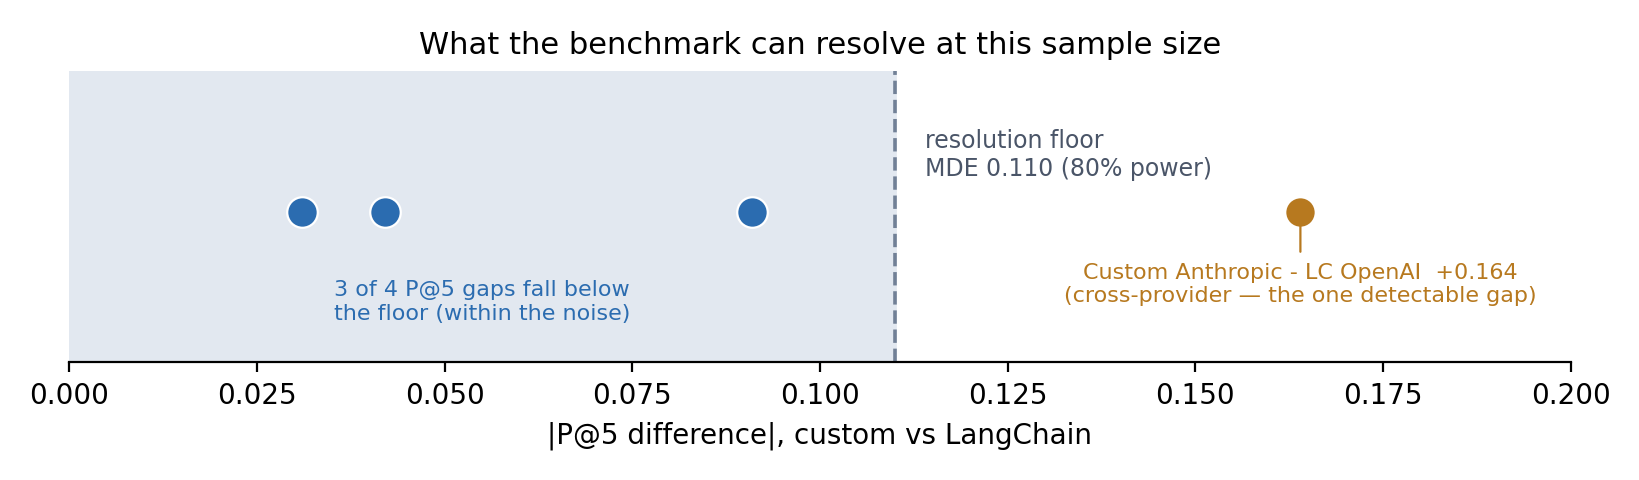
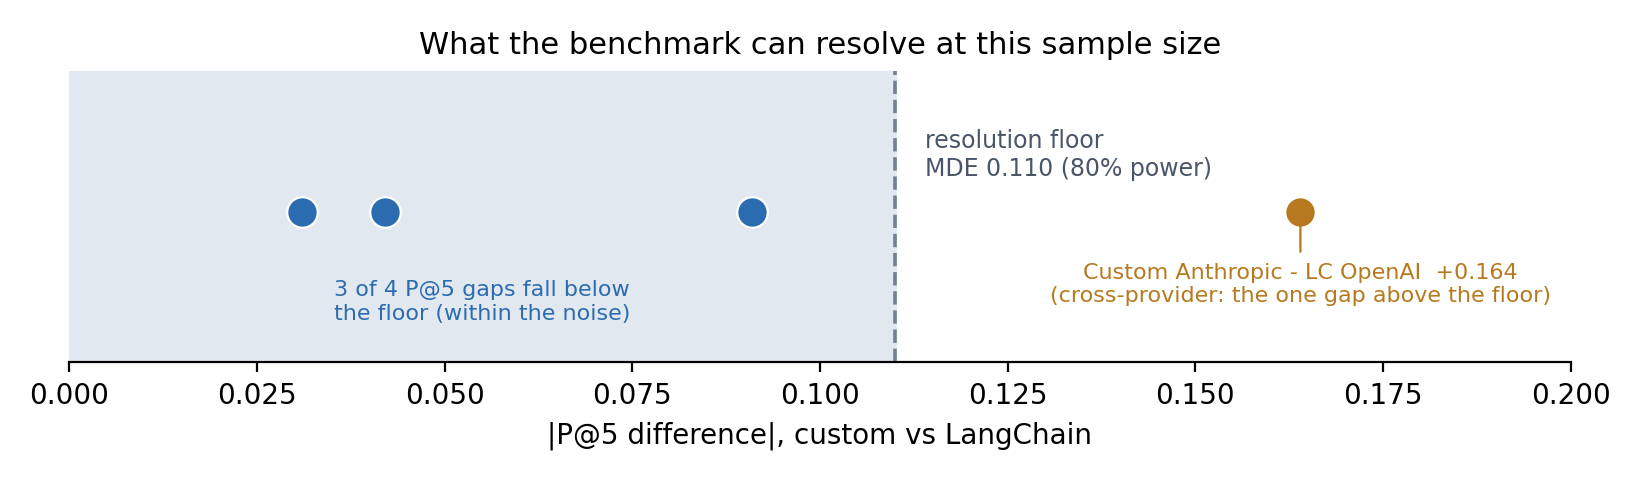
fix(plots): address code-review findings (provenance + derived annotations)
Applies the review fixes (my /code-review + Codex adversarial pass) to the plot set.

1. Unfolding plot pins the KNOWN-TRUTH row, not just observed. unfolding_source now
   parses "Known true pass-rate" from judge-design.md 1.9 and draws the truth line
   from it, so a future 1.9 edit that decoupled observed from truth fails the
   freshness check instead of silently passing a stale "contains the known truth".

2. MDE plot derives detectability from |gap| >= MDE (not 95% significance), computes
   the "N of M below floor" count from the data, derives the cross-provider label
   from same_provider, and guards the zero/multiple cases (was a hardcoded "3 of 4"
   plus a next() that StopIterations when no pair is significant). Correct by
   construction now, not by today's coincidence.

3. The 1.9 point-estimate regex is sign-tolerant (-?), so a negative matrix-inversion
   point (the explicitly-unstable estimator) parses instead of crashing `make plots`.

4. Caption numbers pinned: report-backed numbers (MDE, the +0.164 diff, both ICC
   values, and a new within_question_pct report key) now carry check_readme_stats
   markers (35 -> 41). The unfolding caption's numbers live in judge-design.md (not
   the report, so not checker-pinnable), so the duplicated figures were trimmed from
   the caption -- the plot already shows and pins them.

5. Em-dashes removed from the new captions (CLAUDE.md: no em or en dashes in docs);
[…]

Changed region(s): [[0.6223, 0.5938, 0.9646, 0.6562]]

diff --git a/scripts/make_plots.py b/scripts/make_plots.py
@@ -182,13 +182,21 @@ def variance_source(values: dict[str, str]) -> dict:
 
 def mde_source(values: dict[str, str], corpus: str = "fastapi") -> dict:
     """The P@5 minimum detectable effect (80 percent power) and the four
-    framework-pair |gaps| measured against it -- the detectability/power view."""
+    framework-pair |gaps| measured against it -- the detectability/power view.
+    ``detectable`` is the resolution criterion |gap| >= MDE (NOT 95 percent
+    significance); the two coincide on current data but are different questions."""
+    mde = float(values[f"{corpus}_mde_p_at_5_80"])
     gaps = [
-        {"label": r["label"], "abs_diff": abs(r["diff"]), "significant": r["significant"]}
+        {
+            "label": r["label"],
+            "abs_diff": abs(r["diff"]),
+            "detectable": abs(r["diff"]) >= mde,
+            "same_provider": r["same_provider"],
+        }
         for r in paired_rows(values, corpus)
         if r["metric"] == "p_at_5"
     ]
-    return {"mde": float(values[f"{corpus}_mde_p_at_5_80"]), "gaps": gaps}
+    return {"mde": mde, "gaps": gaps}
 
 
 def unfolding_source() -> dict:
@@ -199,18 +207,27 @@ def unfolding_source() -> dict:
     text = JUDGE_DESIGN.read_text()
 
     def row(label: str) -> tuple[float, float, float]:
-        m = re.search(rf"{re.escape(label)} \| ([\d.]+), 95% CI \[(-?[\d.]+), (-?[\d.]+)\]", text)
+        # point and bounds all sign-tolerant: the matrix-inversion estimator is the
+        # unstable one and a negative point/bound is a valid table value, not a parse error.
+        m = re.search(rf"{re.escape(label)} \| (-?[\d.]+), 95% CI \[(-?[\d.]+), (-?[\d.]+)\]", text)
         if not m:
             raise ValueError(f"judge-design.md section 1.9: row {label!r} not found/parseable")
         return float(m.group(1)), float(m.group(2)), float(m.group(3))
 
-    obs = re.search(r"Observed \(jury\) pass-rate \| [\d/]+ = ([\d.]+)", text)
-    if not obs:
-        raise ValueError("judge-design.md section 1.9: observed pass-rate not found")
+    def scalar(label: str) -> float:
+        m = re.search(rf"{re.escape(label)} \| [\d/]+ = (-?[\d.]+)", text)
+        if not m:
+            raise ValueError(f"judge-design.md section 1.9: row {label!r} not found")
+        return float(m.group(1))
+
     dago = row("Corrected, D'Agostini")
     matinv = row("Corrected, matrix inversion")
+    # Pin the KNOWN-TRUTH row, not just observed: the figure's whole claim is that
+    # the corrected CI contains a separately-known truth, so a drift in that row
+    # must invalidate the plot even though the truth line currently equals observed.
     return {
-        "observed": float(obs.group(1)),
+        "observed": scalar("Observed (jury) pass-rate"),
+        "known_true": scalar("Known true pass-rate"),
         "dagostini": {"point": dago[0], "lo": dago[1], "hi": dago[2]},
         "matrix_inversion": {"point": matinv[0], "lo": matinv[1], "hi": matinv[2]},
     }
@@ -537,8 +554,10 @@ def _render_mde(values: dict[str, str], out_path: Path) -> None:
         color="#4a5568",
         va="top",
     )
+    detectable = [g for g in src["gaps"] if g["detectable"]]
+    below = len(src["gaps"]) - len(detectable)
     for g in src["gaps"]:
-        color = sig_color if g["significant"] else base_color
+        color = sig_color if g["detectable"] else base_color  # past the floor, not 95% significance
         ax.plot(
             g["abs_diff"],
             0,
@@ -549,20 +568,33 @@ def _render_mde(values: dict[str, str], out_path: Path) -> None:
             markeredgewidth=0.8,
             zorder=3,
         )
-    sig = next(g for g in src["gaps"] if g["significant"])
-    ax.annotate(
-        f"{sig['label']}  +{sig['abs_diff']:.3f}\n(cross-provider — the one detectable gap)",
-        (sig["abs_diff"], 0),
-        xytext=(sig["abs_diff"], -0.9),
-        ha="center",
-        fontsize=8,
-        color=sig_color,
-        arrowprops=dict(arrowstyle="-", color=sig_color, lw=0.8),
-    )
+    if len(detectable) == 1:
+        g = detectable[0]
+        prov = "cross-provider" if not g["same_provider"] else "same-provider"
+        ax.annotate(
+            f"{g['label']}  +{g['abs_diff']:.3f}\n({prov}: the one gap above the floor)",
+            (g["abs_diff"], 0),
+            xytext=(g["abs_diff"], -0.9),
+            ha="center",
+            fontsize=8,
+            color=sig_color,
+            arrowprops=dict(arrowstyle="-", color=sig_color, lw=0.8),
+        )
+    else:  # 0 -> no annotation; >1 -> label each gap that clears the floor
+        for g in detectable:
+            ax.annotate(
+                g["label"],
+                (g["abs_diff"], 0),
+                xytext=(g["abs_diff"], -0.9),
+                ha="center",
+                fontsize=7.5,
+                color=sig_color,
+                arrowprops=dict(arrowstyle="-", color=sig_color, lw=0.8),
+            )
     ax.text(
         mde / 2,
         -0.9,
-        "3 of 4 P@5 gaps fall below\nthe floor (within the noise)",
+        f"{below} of {len(src['gaps'])} P@5 gaps fall below\nthe floor (within the noise)",
         ha="center",
         va="center",
         fontsize=8,
@@ -586,12 +618,18 @@ def _render_unfolding(out_path: Path) -> None:
     import matplotlib.pyplot as plt
 
     src = unfolding_source()
-    obs, dago, matinv = src["observed"], src["dagostini"], src["matrix_inversion"]
+    obs, true = src["observed"], src["known_true"]
+    dago, matinv = src["dagostini"], src["matrix_inversion"]
     reg_color, naive_color = "#2b6cb0", "#a0aec0"
 
     fig, ax = plt.subplots(figsize=(8.4, 3.0))
-    ax.axvline(obs, color="#1a202c", lw=1.3, zorder=1)
-    ax.text(obs + 0.008, 1.62, f"observed = known truth {obs:.3f}", fontsize=8.5, va="bottom")
+    # The reference line is the KNOWN TRUTH (what the corrected CI must contain),
+    # drawn from the pinned known_true row, not observed. They coincide in 1.9
+    # (the canary confusion is the identity), so say so only when they actually do.
+    ax.axvline(true, color="#1a202c", lw=1.3, zorder=1)
+    same = abs(obs - true) < 1e-9
+    label = f"observed = known truth {true:.3f}" if same else f"known truth {true:.3f}"
+    ax.text(true + 0.008, 1.62, label, fontsize=8.5, va="bottom")
 
     # D'Agostini (regularized): point + wide CI, entirely inside [0,1]
     ax.plot(

diff --git a/tests/stats/test_make_plots.py b/tests/stats/test_make_plots.py
@@ -91,11 +91,12 @@ def test_variance_rows_contrasts_within_fraction():
     assert abs(k8["within_frac"] - 0.00209 / (0.03249 + 0.00209)) < 1e-9
 
 
-def test_mde_source_reads_floor_and_gaps():
+def test_mde_source_flags_detectable_by_floor_not_significance():
     src = make_plots.mde_source(make_plots.read_values(SAMPLE), "fastapi")
     assert src["mde"] == 0.110
-    sig = next(g for g in src["gaps"] if g["significant"])
-    assert abs(sig["abs_diff"] - 0.164) < 1e-9
+    det = next(g for g in src["gaps"] if g["detectable"])
+    assert abs(det["abs_diff"] - 0.164) < 1e-9  # 0.164 >= 0.110 -> detectable
+    assert det["same_provider"] is False  # so the plot can derive "cross-provider"
 
 
 def test_unfolding_source_parses_judge_design_1_9():
@@ -103,6 +104,7 @@ def test_unfolding_source_parses_judge_design_1_9():
     # table is edited this fails, the intended drift signal for a hand-doc source.
     src = make_plots.unfolding_source()
     assert src["observed"] == 0.700
+    assert src["known_true"] == 0.700  # pinned separately so the "truth" claim can't drift unseen
     assert src["dagostini"] == {"point": 0.641, "lo": 0.287, "hi": 0.959}
     mi = src["matrix_inversion"]
     assert mi["lo"] < 0.0 and mi["hi"] > 1.0  # naive estimator leaves the unit interval

diff --git a/stats/report.py b/stats/report.py
@@ -358,6 +358,12 @@ def _readme_values_section(tables: dict[str, pd.DataFrame], seed: int) -> list[s
             lines.append(f"- {ck}_icc_p_at_5 = {dec.icc:.2f}")
             lines.append(f"- {ck}_between_question_var_p_at_5 = {dec.between_question:.5f}")
             lines.append(f"- {ck}_within_question_var_p_at_5 = {dec.within_question:.5f}")
+            _vtot = dec.between_question + dec.within_question
+            lines.append(
+                f"- {ck}_within_question_pct = {100.0 * dec.within_question / _vtot:.1f}"
+                if _vtot
+                else f"- {ck}_within_question_pct = 0.0"
+            )
         if len(configs) >= 2:
             a = _question_means(df[df["config_id"] == configs[0]], "p_at_5").set_index(
                 "question_id"

diff --git a/README.md b/README.md
@@ -50,7 +50,7 @@ At this sample size (5 epochs per configuration), the minimum detectable P@5 dif
 
 ![Resolution strip: the four P@5 framework gaps against the 0.110 minimum-detectable-effect floor; three fall below it, only the cross-provider +0.164 clears it](docs/_generated/plots/mde_resolution.png)
 
-*The four custom-vs-LangChain P@5 gaps against the 0.110 resolution floor (80 percent power): three sit within it (indistinguishable from noise at this n), and only the cross-provider +0.164 clears it. The floor nearly coincides with the ±0.10 TOST equivalence margin, so "below resolution" and "within the equivalence band" are almost the same statement here. Pinned to the report by a source-hash.*
+*The four custom-vs-LangChain P@5 gaps against the <!-- stats:fastapi_mde_p_at_5_80 -->0.110<!-- /stats --> resolution floor (80 percent power): three sit within it (indistinguishable from noise at this n), and only the cross-provider <!-- stats:fastapi_custom_anthropic_vs_langchain_openai_p_at_5_diff -->+0.164<!-- /stats --> clears it. The floor nearly coincides with the 0.10 TOST equivalence margin, so "below resolution" and "within the equivalence band" are almost the same statement here. Pinned to the report by a source-hash.*
 
 Full analysis: [comparison report](results/comparison_custom_vs_langchain.md)
 
@@ -345,9 +345,9 @@ Agreement is reported with Gwet's AC1 on prevalence-skewed dimensions and Cohen'
 
 A v3.2 extension borrows confusion-matrix unfolding from experimental physics to ask what the judge's own scoring noise does to a reported pass-rate, and whether it can be corrected:
 
-![Judge unfolding: the observed 0.700 completeness pass-rate corrected to 0.641 with a wide 95 percent CI [0.287, 0.959] that contains the truth, while the naive matrix-inversion estimator's CI leaves the unit interval](docs/_generated/plots/unfolding_shift.png)
+![Judge unfolding: the observed completeness pass-rate corrected with a wide 95 percent CI that contains the known truth, while the naive matrix-inversion estimator's CI leaves the unit interval](docs/_generated/plots/unfolding_shift.png)
 
-*Correcting the completeness pass-rate through the judge's confusion matrix moves it (0.700 to 0.641) and widens the honest uncertainty. The regularized D'Agostini interval [0.287, 0.959] is wide but contains the known truth — the propagation is calibrated, not a claim that unfolding rescued a biased measurement (the canary confusion here is the identity). The naive matrix-inversion CI leaves [0,1] entirely, the precise signal that the correction is unidentified at this sample size. Full derivation in [docs/judge-design.md](docs/judge-design.md) section 1.9; pinned to that table by a source-hash.*
+*Correcting the completeness pass-rate through the judge's confusion matrix moves it down and widens the honest uncertainty. The regularized D'Agostini interval is wide but contains the known truth, so the propagation is calibrated; it is not a claim that unfolding rescued a biased measurement (the canary confusion here is the identity). The naive matrix-inversion interval leaves [0,1] entirely, the precise signal that the correction is unidentified at this sample size. The figure and its numbers come from [docs/judge-design.md](docs/judge-design.md) section 1.9, and the figure is pinned to that table by a source-hash.*
 
 ## Methodology Notes
 
@@ -357,7 +357,7 @@ The v3.1 statistics layer turns this run-to-run variance into a measured quantit
 
 ![Variance decomposition contrast: stacked bars for FastAPI and Kubernetes showing within-question epoch noise as 0.6 percent of FastAPI variance versus 6.0 percent for Kubernetes](docs/_generated/plots/icc_contrast.png)
 
-*How much a single run hides depends on the corpus. FastAPI's metric is near-deterministic — within-question epoch noise is 0.6 percent of its variance (ICC 0.99) — while Kubernetes carries ten times as much (6.0 percent, ICC 0.94), because its agentic retrieval issues LLM-written queries that vary run-to-run. Same statistics layer, different amount of hidden distribution. Pinned to the report by a source-hash.*
+*How much a single run hides depends on the corpus. FastAPI's metric is near-deterministic (within-question epoch noise is <!-- stats:fastapi_within_question_pct -->0.6<!-- /stats --> percent of its variance, ICC <!-- stats:fastapi_icc_p_at_5 -->0.99<!-- /stats -->), while Kubernetes carries ten times as much (<!-- stats:k8s_within_question_pct -->6.0<!-- /stats --> percent, ICC <!-- stats:k8s_icc_p_at_5 -->0.94<!-- /stats -->), because its agentic retrieval issues LLM-written queries that vary run-to-run. Same statistics layer, different amount of hidden distribution. Pinned to the report by a source-hash.*
 
 ## Testing
 

diff --git a/tests/stats/fixtures/golden_report_base.md b/tests/stats/fixtures/golden_report_base.md
@@ -63,6 +63,7 @@
 - mini_icc_p_at_5 = 0.88
 - mini_between_question_var_p_at_5 = 0.00227
 - mini_within_question_var_p_at_5 = 0.00031
+- mini_within_question_pct = 11.9
 - mini_mde_p_at_5_80 = 0.019
 - mini_mde_p_at_5_80_normal = 0.016
 

diff --git a/tests/stats/fixtures/golden_report_divergent_se.md b/tests/stats/fixtures/golden_report_divergent_se.md
@@ -65,6 +65,7 @@ correlation-sensitivity caution: mini langchain-mock[phone redacted] p_at_5: clustered 
 - mini_icc_p_at_5 = 0.98
 - mini_between_question_var_p_at_5 = 0.01393
 - mini_within_question_var_p_at_5 = 0.00031
+- mini_within_question_pct = 2.2
 - mini_mde_p_at_5_80 = 0.019
 - mini_mde_p_at_5_80_normal = 0.016
 

diff --git a/tests/stats/fixtures/golden_report_failed_equivalence.md b/tests/stats/fixtures/golden_report_failed_equivalence.md
@@ -65,6 +65,7 @@ ceiling-censored: mini custom-mock[phone redacted] r_at_5: the normal-approximation int
 - mini_icc_p_at_5 = 0.88
 - mini_between_question_var_p_at_5 = 0.00213
 - mini_within_question_var_p_at_5 = 0.00029
+- mini_within_question_pct = 12.0
 - mini_mde_p_at_5_80 = 0.018
 - mini_mde_p_at_5_80_normal = 0.015
 

diff --git a/tests/stats/fixtures/golden_report_nonzero_failure.md b/tests/stats/fixtures/golden_report_nonzero_failure.md
@@ -59,6 +59,7 @@
 - mini_icc_p_at_5 = 0.88
 - mini_between_question_var_p_at_5 = 0.00227
 - mini_within_question_var_p_at_5 = 0.00031
+- mini_within_question_pct = 11.9
 - mini_mde_p_at_5_80 = 0.019
 - mini_mde_p_at_5_80_normal = 0.016
 